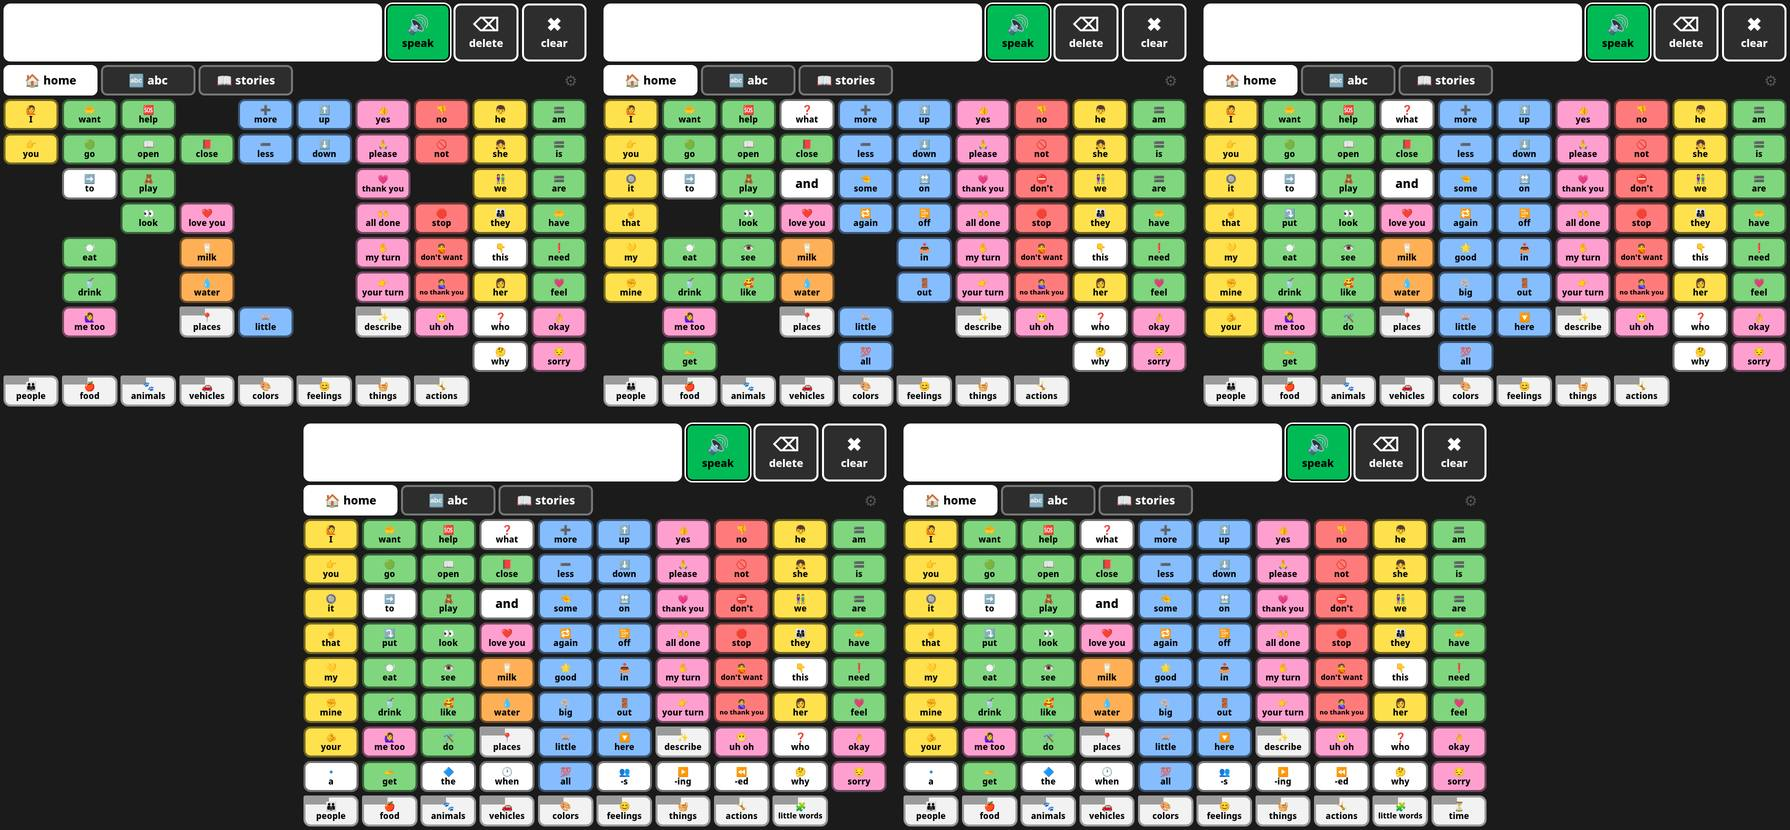
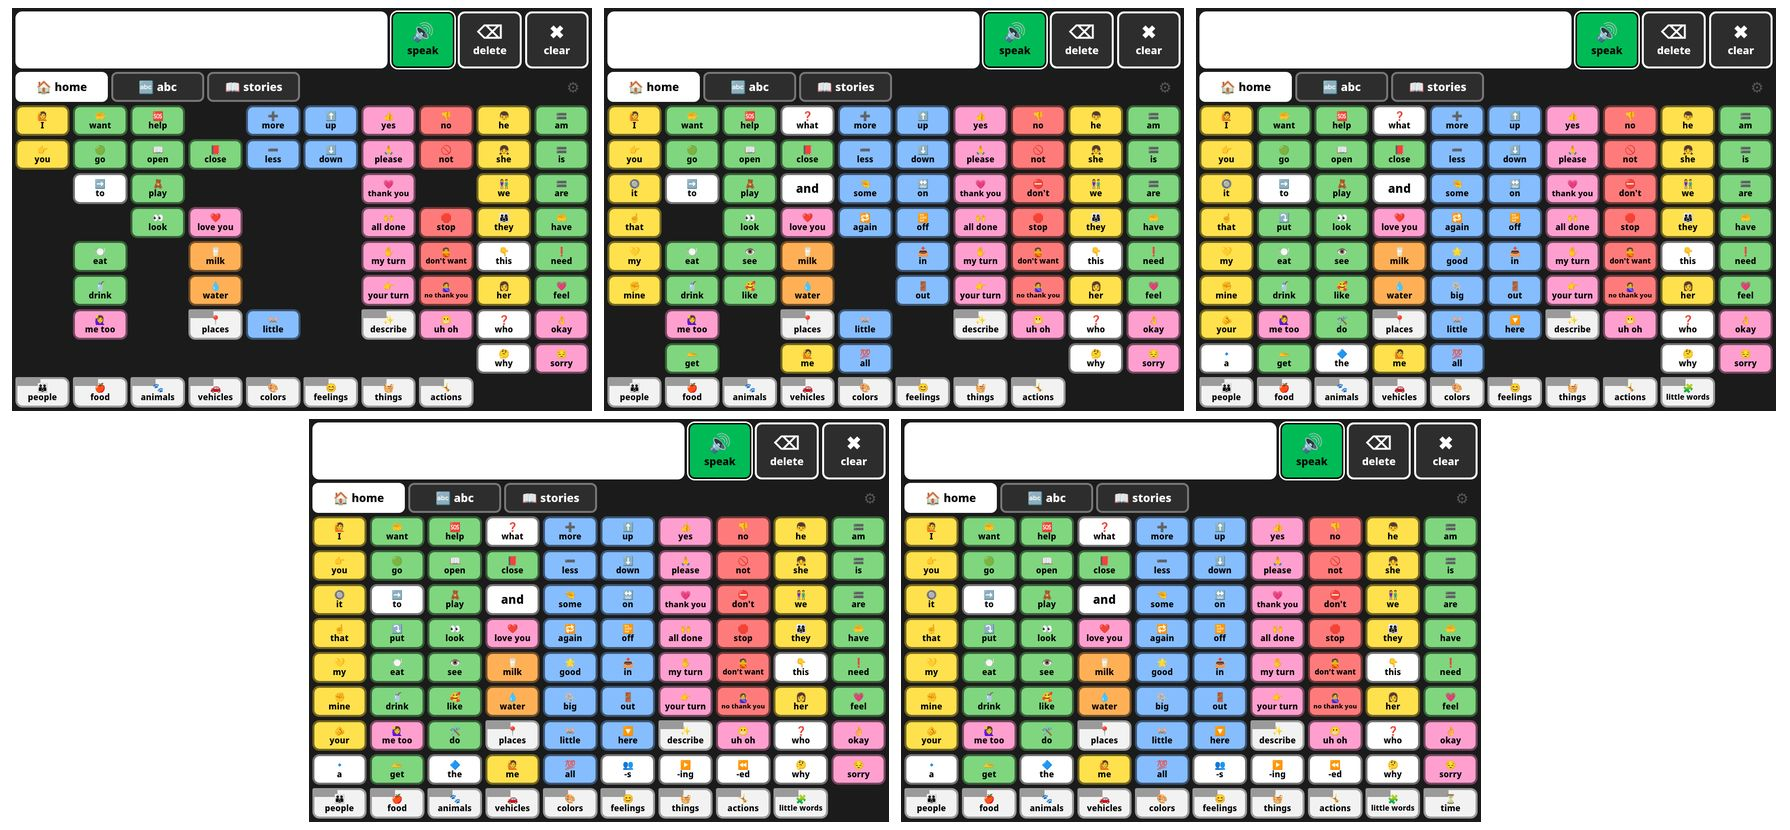
ANOVA 1.4.1: Expanded gap fill (a/the/me, little words with contractions, body, clothes, daily things, foods incl. juice, reactions); counts 67/75/329/422; refreshed growth and endings images

diff --git a/anova/index.html b/anova/index.html
@@ -78,11 +78,11 @@
     </div>
 
     <h2 class="t-descriptor">How the board grows</h2>
-    <p>The board grows with the child without ever moving a button. It has about 383 words in five levels.</p>
+    <p>The board grows with the child without ever moving a button. It has about 422 words in five levels.</p>
     <ul class="tiles">
-      <li>Five word levels. On the home board, Starter shows the 49 most-used words, Middle shows 66, and Expanded shows 72. Sentences adds a, the, when and word endings for 78 home words, plus a "little words" folder. Full adds Conversation: a "time" folder, thinking and school words, and social phrases.</li>
+      <li>Five word levels. On the home board, Starter shows the 49 most-used words, Middle shows 67, and Expanded shows 75 (329 words across the whole board). Sentences adds when and word endings for 78 home words, plus the rest of the "little words" folder. Full adds Conversation, about 422 words in all: a "time" folder, thinking and school words, and social phrases.</li>
       <li>Word endings: tap -s, -ing, -ed, or 's after a word to change it, so jump becomes jumping, cry becomes cries, go becomes went, and child becomes children. Delete takes the ending off first.</li>
-      <li>Updates never surprise the child. A saved level carries over, and a board that was on Full before 1.4.0 stays at Expanded, so no new words appear until a parent picks a higher level.</li>
+      <li>Updates never surprise the child. A saved level carries over, and a board that was on Full before 1.4.0 stays at Expanded, so Sentences and Conversation words appear only when a parent picks those levels.</li>
       <li>Levels can apply inside folders too (it's off by default). At Starter, for example, the animals folder shows 42 of its 89 animals. Sentences and Conversation words always follow the level.</li>
       <li>Single words can be turned on or off in parent settings, so you can add one new word at a time ahead of the next level.</li>
       <li>Buttons never move. A hidden word leaves an empty cell, and new words only fill empty cells, so motor memory carries over.</li>
@@ -107,7 +107,7 @@
     <p>Plain HTML, CSS, and JavaScript. No build step, frameworks, ads, analytics, or network calls. Installs as a home-screen web app and works offline. MIT license.</p>
 
     <h2 class="t-social">Status</h2>
-    <p>Version 1.4.0, started September 2026 and actively developed. Recent work: two new word levels (Sentences and Conversation), word endings (-s, -ing, -ed, 's) with irregular forms, "little words" and "time" folders, the "where" folder renamed to "places", a more natural voice picked automatically, and a 9x10 home board with core words and opposites side by side.</p>
+    <p>Version 1.4.1, started September 2026 and actively developed. Recent work: the Expanded level filled in with everyday words for short sentences (a, the, and me on home; a "little words" folder with I'm, it's, that's, and let's; body parts, clothes, daily things like bath, bed, and potty; foods including juice; and reaction words like wow, yuck, and oops), two new word levels (Sentences and Conversation), word endings (-s, -ing, -ed, 's) with irregular forms, "little words" and "time" folders, the "where" folder renamed to "places", a more natural voice picked automatically, and a 9x10 home board with core words and opposites side by side.</p>
 
     <h2 class="t-people">About the name</h2>
     <p>ANOVA is a nod to analysis of variance, the statistics term. Language learning varies a lot from person to person, and the board is built to adapt to that. The app itself doesn't do any statistics.</p>
